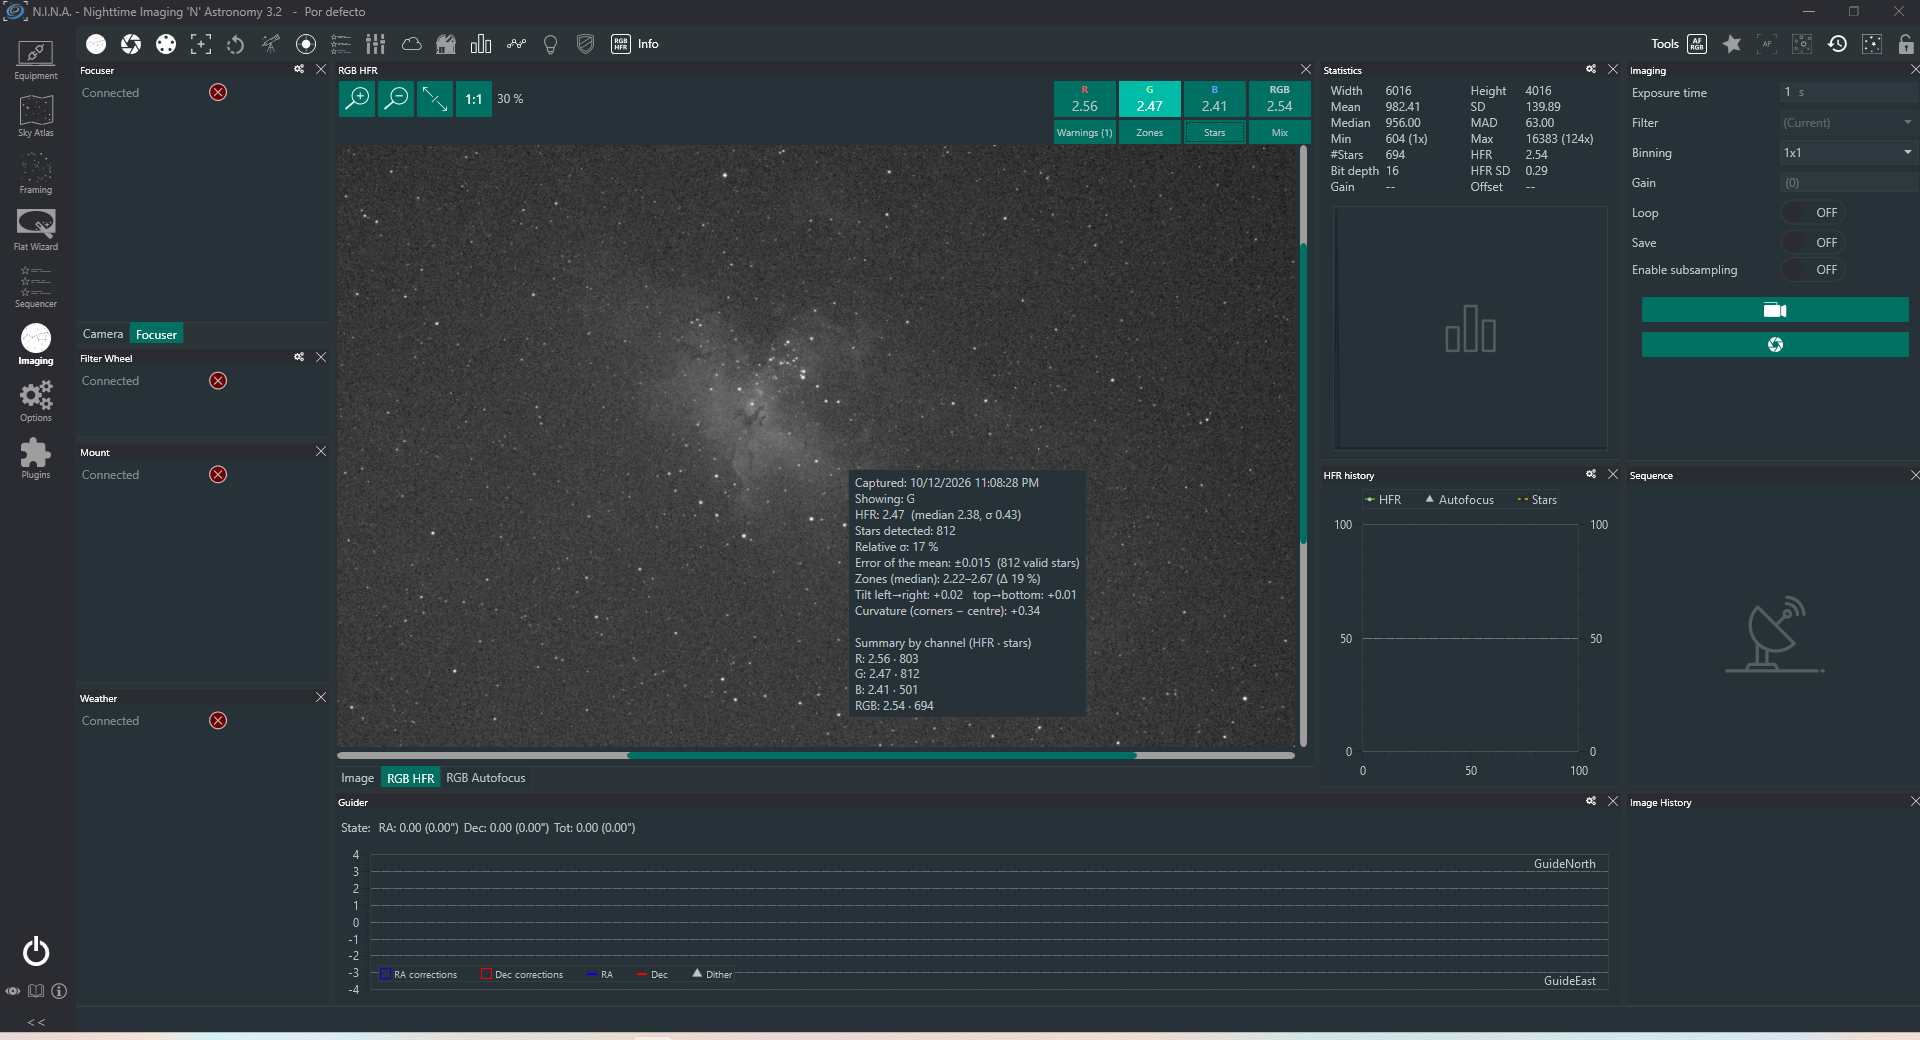
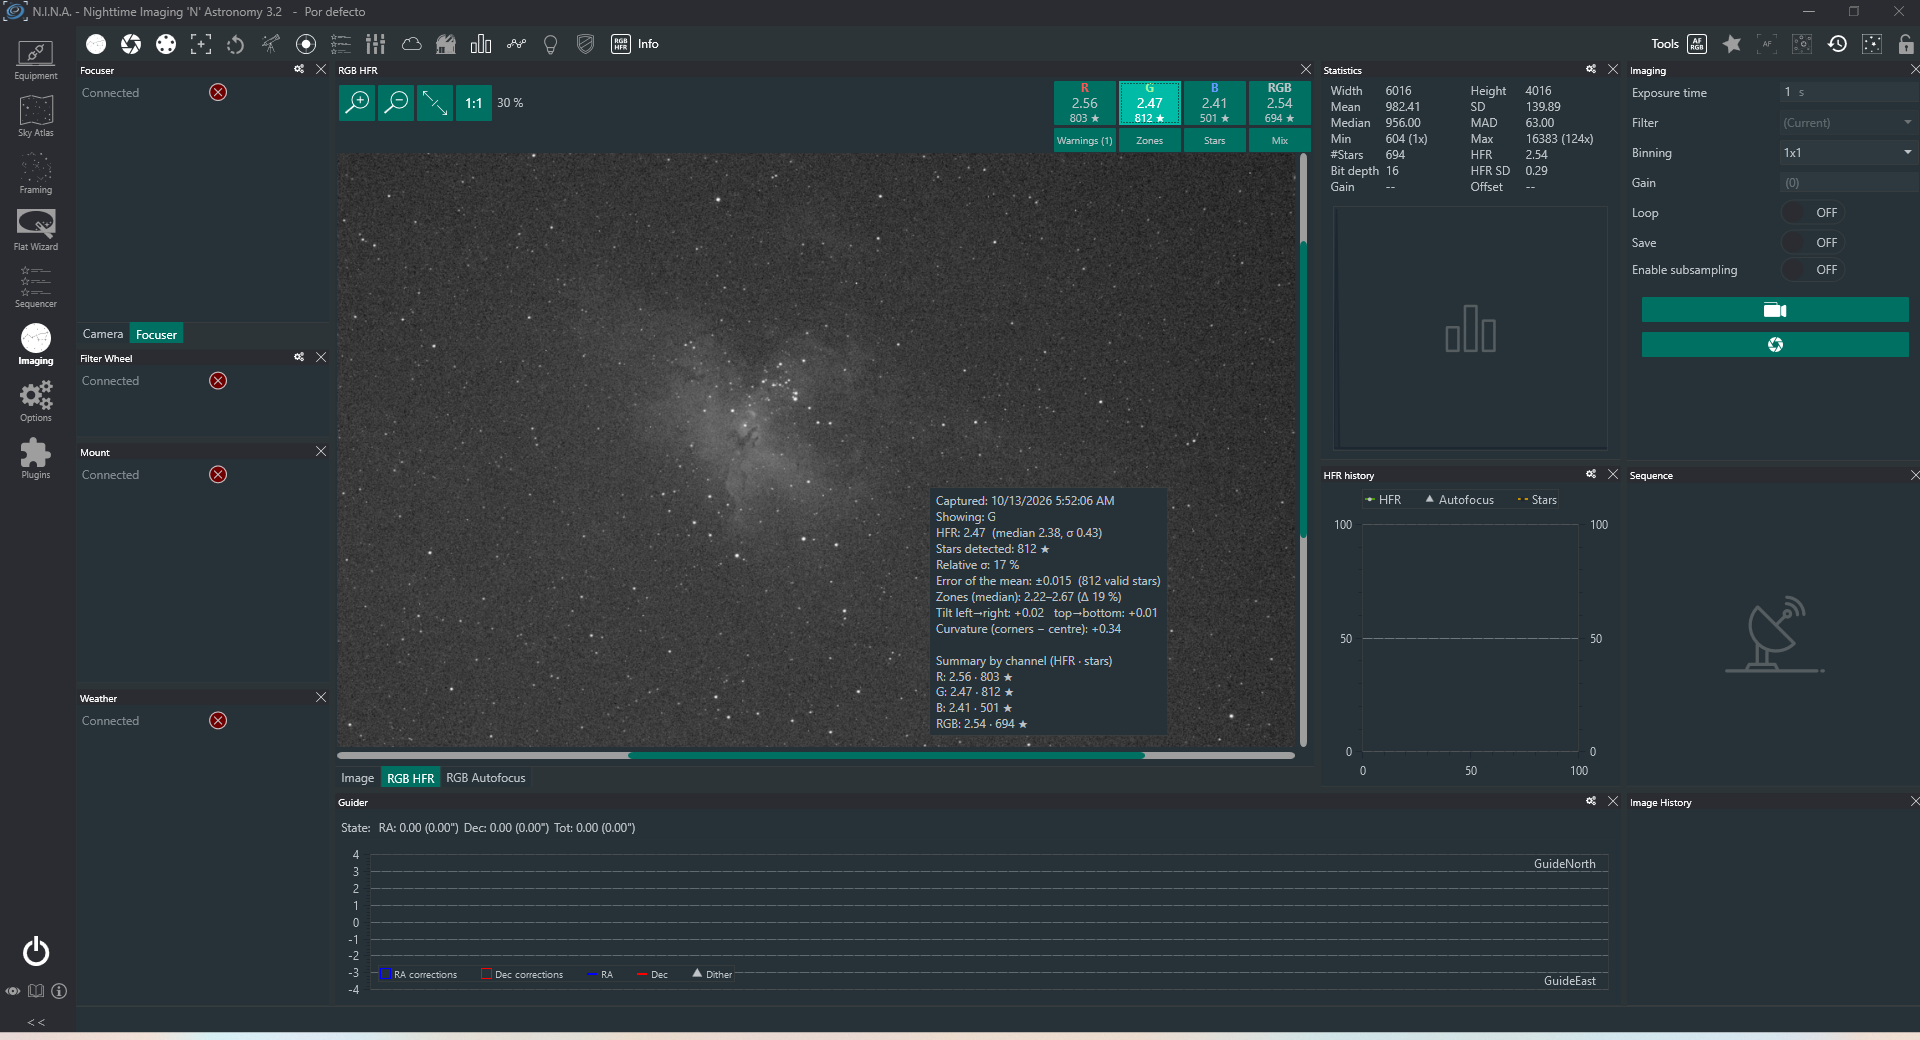
Minor changes

diff --git a/RgbfocusDockables/RgbfocusDockableTemplates.xaml b/RgbfocusDockables/RgbfocusDockableTemplates.xaml
@@ -64,43 +64,43 @@
                 </Button>
                 <TextBlock Width="48" Margin="4,0,0,0" VerticalAlignment="Center" FontSize="12" Text="{Binding ZoomText}" />
             </StackPanel>
-            <Button Grid.Row="0" Grid.Column="1" Height="36" Margin="1.5" Padding="0" Command="{Binding SelectChannelCommand}" CommandParameter="R" ToolTip="{Binding TipR}">
-                <Grid Width="62" Height="36">
+            <Button Grid.Row="0" Grid.Column="1" Height="44" Margin="1.5" Padding="0" Command="{Binding SelectChannelCommand}" CommandParameter="R" ToolTip="{Binding TipR}">
+                <Grid Width="62" Height="44">
                     <Border Background="{Binding VisR.SelectionBrush}" />
                     <StackPanel VerticalAlignment="Center">
-                        <TextBlock HorizontalAlignment="Center" FontSize="9" FontWeight="Bold" LineHeight="10" LineStackingStrategy="BlockLineHeight" Foreground="{Binding VisR.LetterForeground}" Text="R" />
-                        <TextBlock HorizontalAlignment="Center" FontSize="13" LineHeight="15" LineStackingStrategy="BlockLineHeight" Foreground="{Binding VisR.ValueForeground}" Text="{Binding HfrR}" />
-                        <TextBlock HorizontalAlignment="Center" FontSize="9" LineHeight="10" LineStackingStrategy="BlockLineHeight" Opacity="0.8" Foreground="{Binding VisR.ValueForeground}" Text="{Binding StarsR}" />
+                        <TextBlock HorizontalAlignment="Center" FontSize="12" FontWeight="Bold" LineHeight="14" LineStackingStrategy="BlockLineHeight" Foreground="{Binding VisR.LetterForeground}" Text="R" />
+                        <TextBlock HorizontalAlignment="Center" FontSize="14" LineHeight="16" LineStackingStrategy="BlockLineHeight" Foreground="{Binding VisR.ValueForeground}" Text="{Binding HfrR}" />
+                        <TextBlock HorizontalAlignment="Center" FontSize="11" LineHeight="13" LineStackingStrategy="BlockLineHeight" Foreground="{Binding VisR.ValueForeground}" Text="{Binding StarsR, StringFormat='{}{0} ★'}" />
                     </StackPanel>
                 </Grid>
             </Button>
-            <Button Grid.Row="0" Grid.Column="2" Height="36" Margin="1.5" Padding="0" Command="{Binding SelectChannelCommand}" CommandParameter="G" ToolTip="{Binding TipG}">
-                <Grid Width="62" Height="36">
+            <Button Grid.Row="0" Grid.Column="2" Height="44" Margin="1.5" Padding="0" Command="{Binding SelectChannelCommand}" CommandParameter="G" ToolTip="{Binding TipG}">
+                <Grid Width="62" Height="44">
                     <Border Background="{Binding VisG.SelectionBrush}" />
                     <StackPanel VerticalAlignment="Center">
-                        <TextBlock HorizontalAlignment="Center" FontSize="9" FontWeight="Bold" LineHeight="10" LineStackingStrategy="BlockLineHeight" Foreground="{Binding VisG.LetterForeground}" Text="G" />
-                        <TextBlock HorizontalAlignment="Center" FontSize="13" LineHeight="15" LineStackingStrategy="BlockLineHeight" Foreground="{Binding VisG.ValueForeground}" Text="{Binding HfrG}" />
-                        <TextBlock HorizontalAlignment="Center" FontSize="9" LineHeight="10" LineStackingStrategy="BlockLineHeight" Opacity="0.8" Foreground="{Binding VisG.ValueForeground}" Text="{Binding StarsG}" />
+                        <TextBlock HorizontalAlignment="Center" FontSize="12" FontWeight="Bold" LineHeight="14" LineStackingStrategy="BlockLineHeight" Foreground="{Binding VisG.LetterForeground}" Text="G" />
+                        <TextBlock HorizontalAlignment="Center" FontSize="14" LineHeight="16" LineStackingStrategy="BlockLineHeight" Foreground="{Binding VisG.ValueForeground}" Text="{Binding HfrG}" />
+                        <TextBlock HorizontalAlignment="Center" FontSize="11" LineHeight="13" LineStackingStrategy="BlockLineHeight" Foreground="{Binding VisG.ValueForeground}" Text="{Binding StarsG, StringFormat='{}{0} ★'}" />
                     </StackPanel>
                 </Grid>
             </Button>
-            <Button Grid.Row="0" Grid.Column="3" Height="36" Margin="1.5" Padding="0" Command="{Binding SelectChannelCommand}" CommandParameter="B" ToolTip="{Binding TipB}">
-                <Grid Width="62" Height="36">
+            <Button Grid.Row="0" Grid.Column="3" Height="44" Margin="1.5" Padding="0" Command="{Binding SelectChannelCommand}" CommandParameter="B" ToolTip="{Binding TipB}">
+                <Grid Width="62" Height="44">
                     <Border Background="{Binding VisB.SelectionBrush}" />
                     <StackPanel VerticalAlignment="Center">
-                        <TextBlock HorizontalAlignment="Center" FontSize="9" FontWeight="Bold" LineHeight="10" LineStackingStrategy="BlockLineHeight" Foreground="{Binding VisB.LetterForeground}" Text="B" />
-                        <TextBlock HorizontalAlignment="Center" FontSize="13" LineHeight="15" LineStackingStrategy="BlockLineHeight" Foreground="{Binding VisB.ValueForeground}" Text="{Binding HfrB}" />
-                        <TextBlock HorizontalAlignment="Center" FontSize="9" LineHeight="10" LineStackingStrategy="BlockLineHeight" Opacity="0.8" Foreground="{Binding VisB.ValueForeground}" Text="{Binding StarsB}" />
+                        <TextBlock HorizontalAlignment="Center" FontSize="12" FontWeight="Bold" LineHeight="14" LineStackingStrategy="BlockLineHeight" Foreground="{Binding VisB.LetterForeground}" Text="B" />
+                        <TextBlock HorizontalAlignment="Center" FontSize="14" LineHeight="16" LineStackingStrategy="BlockLineHeight" Foreground="{Binding VisB.ValueForeground}" Text="{Binding HfrB}" />
+                        <TextBlock HorizontalAlignment="Center" FontSize="11" LineHeight="13" LineStackingStrategy="BlockLineHeight" Foreground="{Binding VisB.ValueForeground}" Text="{Binding StarsB, StringFormat='{}{0} ★'}" />
                     </StackPanel>
                 </Grid>
             </Button>
-            <Button Grid.Row="0" Grid.Column="4" Height="36" Margin="1.5" Padding="0" Command="{Binding SelectChannelCommand}" CommandParameter="L" ToolTip="{Binding TipL}">
-                <Grid Width="62" Height="36">
+            <Button Grid.Row="0" Grid.Column="4" Height="44" Margin="1.5" Padding="0" Command="{Binding SelectChannelCommand}" CommandParameter="L" ToolTip="{Binding TipL}">
+                <Grid Width="62" Height="44">
                     <Border Background="{Binding VisL.SelectionBrush}" />
                     <StackPanel VerticalAlignment="Center">
-                        <TextBlock HorizontalAlignment="Center" FontSize="9" FontWeight="Bold" LineHeight="10" LineStackingStrategy="BlockLineHeight" Foreground="{Binding VisL.LetterForeground}" Text="RGB" />
-                        <TextBlock HorizontalAlignment="Center" FontSize="13" LineHeight="15" LineStackingStrategy="BlockLineHeight" Foreground="{Binding VisL.ValueForeground}" Text="{Binding HfrL}" />
-                        <TextBlock HorizontalAlignment="Center" FontSize="9" LineHeight="10" LineStackingStrategy="BlockLineHeight" Opacity="0.8" Foreground="{Binding VisL.ValueForeground}" Text="{Binding StarsL}" />
+                        <TextBlock HorizontalAlignment="Center" FontSize="12" FontWeight="Bold" LineHeight="14" LineStackingStrategy="BlockLineHeight" Foreground="{Binding VisL.LetterForeground}" Text="RGB" />
+                        <TextBlock HorizontalAlignment="Center" FontSize="14" LineHeight="16" LineStackingStrategy="BlockLineHeight" Foreground="{Binding VisL.ValueForeground}" Text="{Binding HfrL}" />
+                        <TextBlock HorizontalAlignment="Center" FontSize="11" LineHeight="13" LineStackingStrategy="BlockLineHeight" Foreground="{Binding VisL.ValueForeground}" Text="{Binding StarsL, StringFormat='{}{0} ★'}" />
                     </StackPanel>
                 </Grid>
             </Button>

diff --git a/Localization/Strings.cs b/Localization/Strings.cs
@@ -25,7 +25,7 @@ namespace AntonioAguadoRovira.NINA.Rgbfocus.Localization {
             A("Info.Capture", "Captured: {0}", "Captura: {0}");
             A("Info.Showing", "Showing: {0}", "Mostrando: {0}");
             A("Info.Hfr", "HFR: {0}  (median {1}, σ {2})", "HFR: {0}  (mediana {1}, σ {2})");
-            A("Info.Stars", "Stars detected: {0}", "Estrellas detectadas: {0}");
+            A("Info.Stars", "Stars detected: {0} ★", "Estrellas detectadas: {0} ★");
             A("Info.ChannelSummary", "Summary by channel (HFR · stars)", "Resumen por canal (HFR · estrellas)");
             A("Diag.RelSigma", "Relative σ: {0}", "σ relativa: {0}");
             A("Diag.StdError", "Error of the mean: {0}  ({1} valid stars)", "Error de la media: {0}  ({1} estrellas válidas)");
@@ -42,7 +42,7 @@ namespace AntonioAguadoRovira.NINA.Rgbfocus.Localization {
             A("Zone.B", "Bottom centre", "Abajo centro");
             A("Zone.BR", "Bottom right", "Abajo derecha");
             A("Zone.Few", "{0}\nFew stars ({1}): not calculated", "{0}\nPocas estrellas ({1}): no se calcula");
-            A("Zone.Tip", "{0}  ({1})\nHFR (median): {2}\nHFR (mean): {3}\nσ: {4}  ({5} % of the HFR)\nError of the mean: ±{6}\nStars: {7}\nVs. global median ({8}): {9} %", "{0}  ({1})\nHFR (mediana): {2}\nHFR (media): {3}\nσ: {4}  ({5} % del HFR)\nError de la media: ±{6}\nEstrellas: {7}\nRespecto a la mediana global ({8}): {9} %");
+            A("Zone.Tip", "{0}  ({1})\nHFR (median): {2}\nHFR (mean): {3}\nσ: {4}  ({5} % of the HFR)\nError of the mean: ±{6}\nStars: {7} ★\nVs. global median ({8}): {9} %", "{0}  ({1})\nHFR (mediana): {2}\nHFR (media): {3}\nσ: {4}  ({5} % del HFR)\nError de la media: ±{6}\nEstrellas: {7} ★\nRespecto a la mediana global ({8}): {9} %");
             A("Btn.Warnings", "Warnings", "Avisos");
             A("Btn.WarningsN", "Warnings ({0})", "Avisos ({0})");
             A("Btn.Zones", "Zones", "Zonas");

diff --git a/RgbfocusDockables/RgbfocusDockable.cs b/RgbfocusDockables/RgbfocusDockable.cs
@@ -559,10 +559,10 @@ namespace AntonioAguadoRovira.NINA.Rgbfocus.RgbfocusDockables {
             sb.AppendLine(Diagnostics);
             sb.AppendLine();
             sb.AppendLine(Loc.T("Info.ChannelSummary"));
-            sb.AppendLine($"R: {HfrR} · {StarsR}");
-            sb.AppendLine($"G: {HfrG} · {StarsG}");
-            sb.AppendLine($"B: {HfrB} · {StarsB}");
-            sb.Append($"RGB: {HfrL} · {StarsL}");
+            sb.AppendLine($"R: {HfrR} · {StarsR} ★");
+            sb.AppendLine($"G: {HfrG} · {StarsG} ★");
+            sb.AppendLine($"B: {HfrB} · {StarsB} ★");
+            sb.Append($"RGB: {HfrL} · {StarsL} ★");
             return sb.ToString();
         }
 
